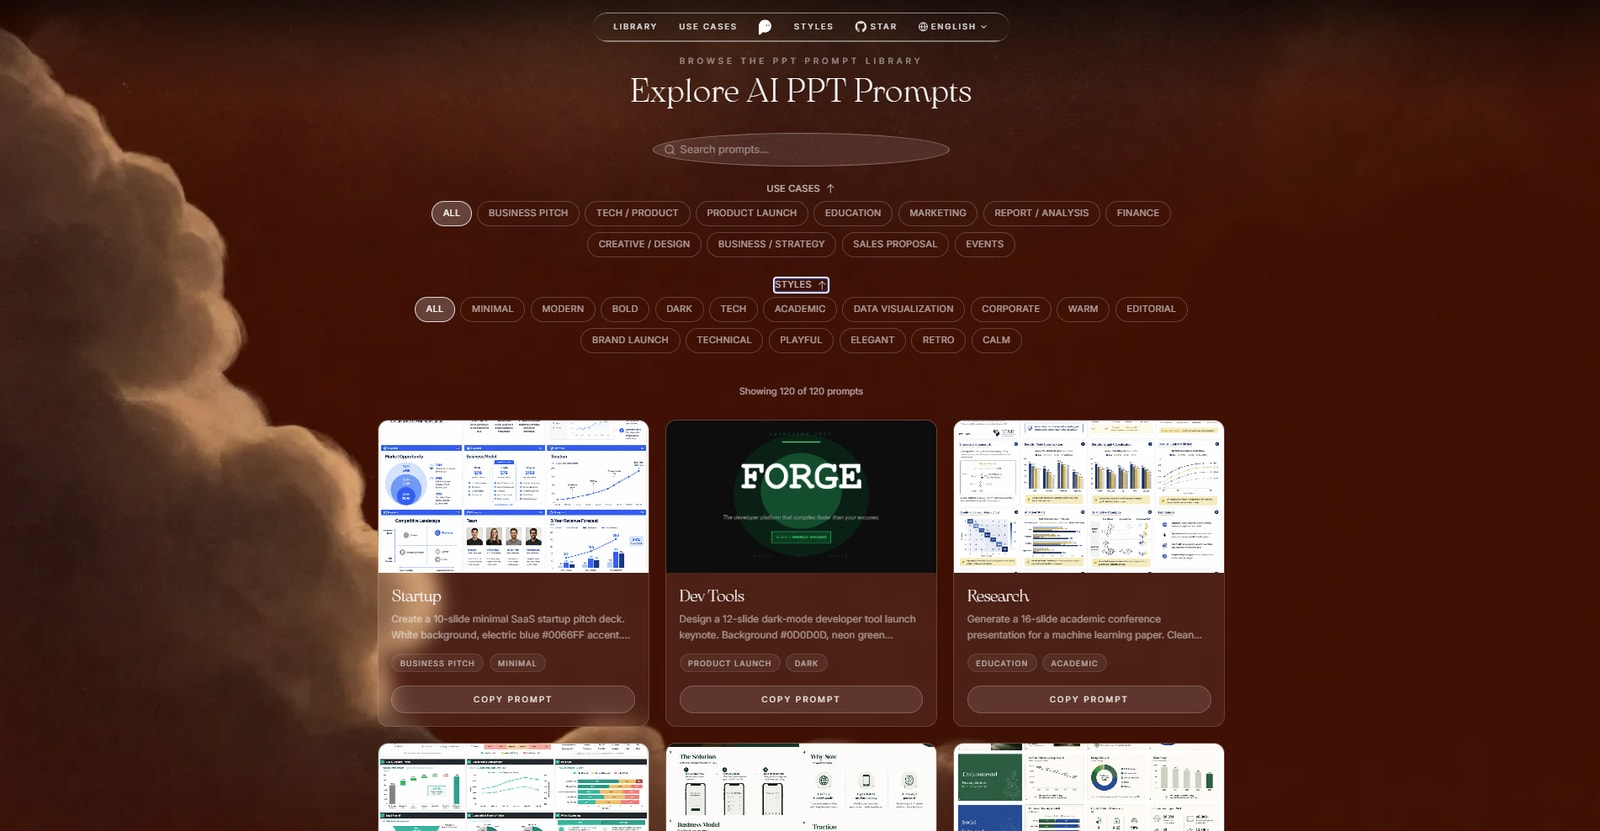
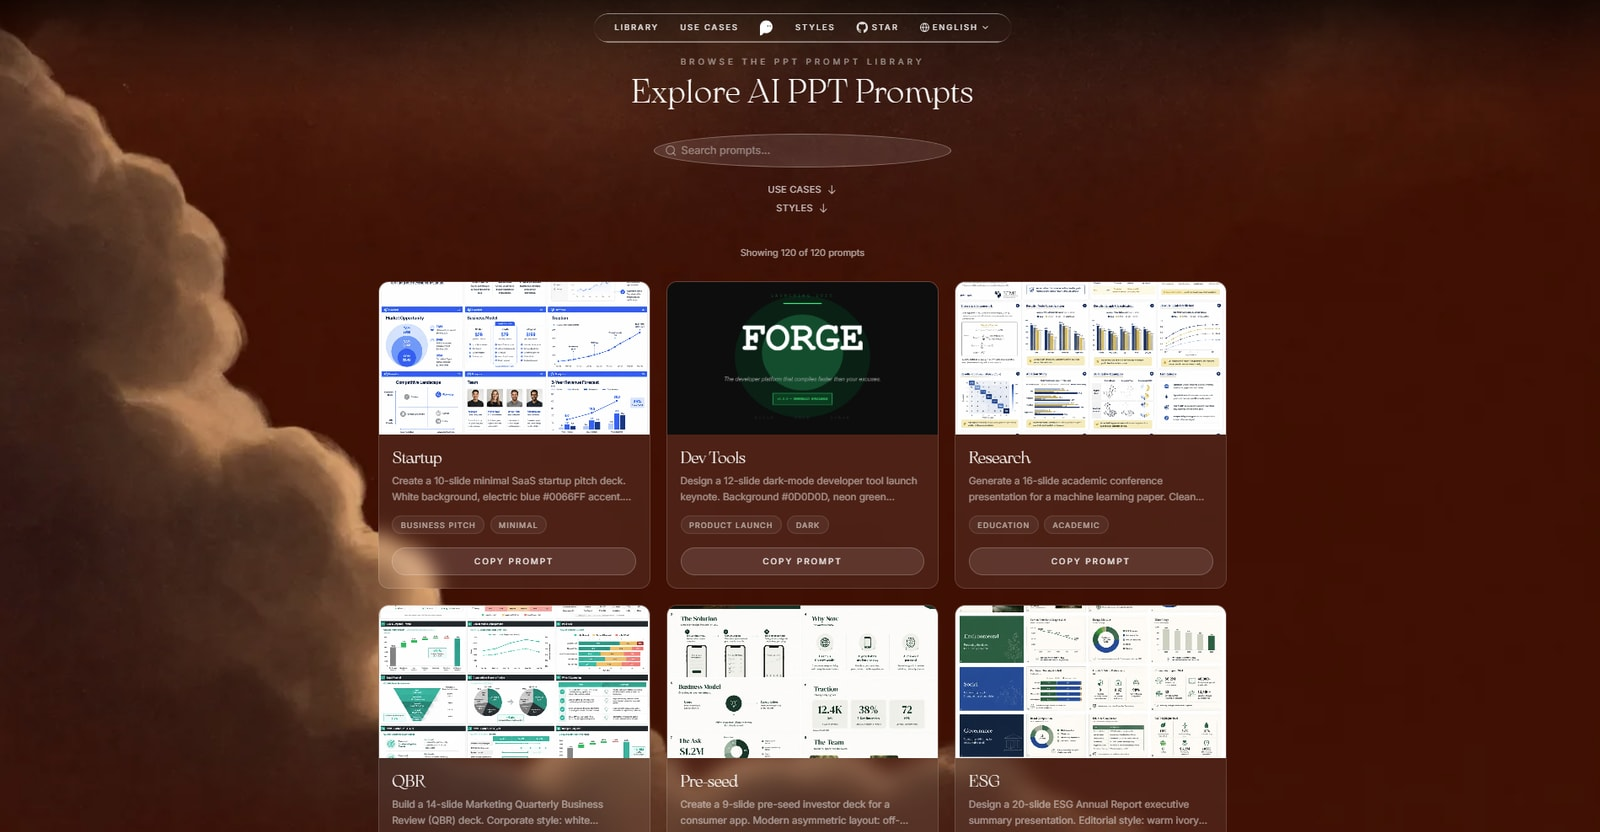
docs: give every localized README its own screenshots
Each language README now shows the hero and gallery captured in that
language — nav, filter chips, card titles and buttons all rendered in the
locale rather than borrowing the English shots.

Covers 11 of the 12 localized READMEs. zh-Hant still points at the English
images; no Traditional Chinese capture exists yet.

Capture filenames used kr/jp; these are stored under the ko/ja codes the
READMEs and locale files use. English shots were re-encoded from fresh
captures too. 24 images, 3.1MB total at 1600px mozjpeg.

diff --git a/README_th.md b/README_th.md
@@ -5,7 +5,7 @@
 > อัปเดตเป็นประจำจากชุมชนคุณภาพสูงเพื่อสร้างสไลด์นำเสนอได้เร็วและดียิ่งขึ้น
 
 <a href="https://surgepix.ai/resources/th/awesome-ppt-prompts">
-  <img src="public/images/hero.jpg" alt="คลังพรอมต์ PPT" width="100%" />
+  <img src="public/images/hero-th.jpg" alt="คลังพรอมต์ PPT" width="100%" />
 </a>
 
 > ⚠ ประกาศลิขสิทธิ์: พรอมต์ทั้งหมดรวบรวมจากชุมชน (Reddit, X, GitHub) เพื่อการศึกษาและอ้างอิง พร้อมระบุแหล่งที่มา หากคุณเชื่อว่ามีเนื้อหาใดละเมิดสิทธิ์ โปรดเปิด issue เราจะดำเนินการโดยเร็ว
@@ -13,7 +13,7 @@
 ---
 
 <a href="https://surgepix.ai/resources/th/awesome-ppt-prompts">
-  <img src="public/images/gallery.jpg" alt="คลังพรอมต์ PPT" width="100%" />
+  <img src="public/images/gallery-th.jpg" alt="คลังพรอมต์ PPT" width="100%" />
 </a>
 
 **[👉 เรียกดูคลังพรอมต์ AI PPT ของ SurgePix (ภาษาไทย)](https://surgepix.ai/resources/th/awesome-ppt-prompts)**

diff --git a/README_ja.md b/README_ja.md
@@ -5,7 +5,7 @@
 > 高品質コミュニティから定期的に更新され、すぐに使えるPPTプロンプトをより早く作成できます。
 
 <a href="https://surgepix.ai/resources/ja/awesome-ppt-prompts">
-  <img src="public/images/hero.jpg" alt="PPT プロンプトライブラリ" width="100%" />
+  <img src="public/images/hero-ja.jpg" alt="PPT プロンプトライブラリ" width="100%" />
 </a>
 
 > ⚠ 著作権について：プロンプトはコミュニティ（Reddit、X、GitHub）から出典を明記して収集したもので、学習・参考目的です。権利侵害があるとお考えの場合は issue を開いてください。速やかに対応します。
@@ -13,7 +13,7 @@
 ---
 
 <a href="https://surgepix.ai/resources/ja/awesome-ppt-prompts">
-  <img src="public/images/gallery.jpg" alt="PPT プロンプトライブラリ" width="100%" />
+  <img src="public/images/gallery-ja.jpg" alt="PPT プロンプトライブラリ" width="100%" />
 </a>
 
 **[👉 SurgePix AI PPT プロンプトライブラリを見る（日本語版）](https://surgepix.ai/resources/ja/awesome-ppt-prompts)**

diff --git a/README_fr.md b/README_fr.md
@@ -5,7 +5,7 @@
 > Régulièrement mise à jour à partir de communautés de haute qualité pour créer des prompts PPT prêts à l'emploi plus rapidement.
 
 <a href="https://surgepix.ai/resources/fr/awesome-ppt-prompts">
-  <img src="public/images/hero.jpg" alt="Bibliothèque de Prompts PPT" width="100%" />
+  <img src="public/images/hero-fr.jpg" alt="Bibliothèque de Prompts PPT" width="100%" />
 </a>
 
 > ⚠ Avis de droit d'auteur : les prompts sont collectés auprès de la communauté (Reddit, X, GitHub) à des fins éducatives et d'inspiration, avec attribution des sources. Si vous pensez qu'un contenu porte atteinte à vos droits, veuillez ouvrir une issue ; nous le retirerons rapidement.
@@ -13,7 +13,7 @@
 ---
 
 <a href="https://surgepix.ai/resources/fr/awesome-ppt-prompts">
-  <img src="public/images/gallery.jpg" alt="Bibliothèque de Prompts PPT" width="100%" />
+  <img src="public/images/gallery-fr.jpg" alt="Bibliothèque de Prompts PPT" width="100%" />
 </a>
 
 **[👉 Parcourir la bibliothèque de prompts AI PPT SurgePix (Français)](https://surgepix.ai/resources/fr/awesome-ppt-prompts)**

diff --git a/README_vi.md b/README_vi.md
@@ -5,7 +5,7 @@
 > Được cập nhật thường xuyên từ các cộng đồng chất lượng cao để soạn thảo thuyết trình nhanh hơn, tốt hơn.
 
 <a href="https://surgepix.ai/resources/vi/awesome-ppt-prompts">
-  <img src="public/images/hero.jpg" alt="Thư Viện Prompt PPT" width="100%" />
+  <img src="public/images/hero-vi.jpg" alt="Thư Viện Prompt PPT" width="100%" />
 </a>
 
 > ⚠ Thông báo bản quyền: Các prompt được thu thập từ cộng đồng (Reddit, X, GitHub) cho mục đích giáo dục và tham khảo, có ghi rõ nguồn. Nếu bạn cho rằng nội dung nào vi phạm quyền của mình, vui lòng mở issue, chúng tôi sẽ xử lý kịp thời.
@@ -13,7 +13,7 @@
 ---
 
 <a href="https://surgepix.ai/resources/vi/awesome-ppt-prompts">
-  <img src="public/images/gallery.jpg" alt="Thư Viện Prompt PPT" width="100%" />
+  <img src="public/images/gallery-vi.jpg" alt="Thư Viện Prompt PPT" width="100%" />
 </a>
 
 **[👉 Duyệt Thư viện Prompt AI PPT của SurgePix (Tiếng Việt)](https://surgepix.ai/resources/vi/awesome-ppt-prompts)**

diff --git a/README_ko.md b/README_ko.md
@@ -5,7 +5,7 @@
 > 고품질 커뮤니티에서 정기적으로 업데이트되어 바로 사용할 수 있는 PPT 프롬프트를 더 빠르게 작성할 수 있습니다.
 
 <a href="https://surgepix.ai/resources/ko/awesome-ppt-prompts">
-  <img src="public/images/hero.jpg" alt="PPT 프롬프트 라이브러리" width="100%" />
+  <img src="public/images/hero-ko.jpg" alt="PPT 프롬프트 라이브러리" width="100%" />
 </a>
 
 > ⚠ 저작권 안내: 프롬프트는 커뮤니티(Reddit, X, GitHub)에서 출처를 명시하여 수집했으며, 학습 및 참고 목적입니다. 권리 침해라고 판단되면 issue를 열어주세요. 신속히 조치하겠습니다.
@@ -13,7 +13,7 @@
 ---
 
 <a href="https://surgepix.ai/resources/ko/awesome-ppt-prompts">
-  <img src="public/images/gallery.jpg" alt="PPT 프롬프트 라이브러리" width="100%" />
+  <img src="public/images/gallery-ko.jpg" alt="PPT 프롬프트 라이브러리" width="100%" />
 </a>
 
 **[👉 SurgePix AI PPT 프롬프트 라이브러리 보기 (한국어판)](https://surgepix.ai/resources/ko/awesome-ppt-prompts)**

diff --git a/README_es.md b/README_es.md
@@ -5,7 +5,7 @@
 > Actualizada regularmente desde comunidades de alta calidad para crear prompts PPT listos para usar más rápido.
 
 <a href="https://surgepix.ai/resources/es/awesome-ppt-prompts">
-  <img src="public/images/hero.jpg" alt="Biblioteca de Prompts PPT" width="100%" />
+  <img src="public/images/hero-es.jpg" alt="Biblioteca de Prompts PPT" width="100%" />
 </a>
 
 > ⚠ Aviso de derechos de autor: los prompts se recopilan de la comunidad (Reddit, X, GitHub) con fines educativos e inspiración, con atribución de fuente. Si cree que algún contenido infringe sus derechos, abra un issue y lo eliminaremos de inmediato.
@@ -13,7 +13,7 @@
 ---
 
 <a href="https://surgepix.ai/resources/es/awesome-ppt-prompts">
-  <img src="public/images/gallery.jpg" alt="Biblioteca de Prompts PPT" width="100%" />
+  <img src="public/images/gallery-es.jpg" alt="Biblioteca de Prompts PPT" width="100%" />
 </a>
 
 **[👉 Explorar la Biblioteca de Prompts de IA para PPT de SurgePix (Español)](https://surgepix.ai/resources/es/awesome-ppt-prompts)**

diff --git a/README_tr.md b/README_tr.md
@@ -5,7 +5,7 @@
 > Daha hızlı ve daha iyi sunum hazırlamak için yüksek kaliteli topluluktan düzenli olarak güncellenir.
 
 <a href="https://surgepix.ai/resources/tr/awesome-ppt-prompts">
-  <img src="public/images/hero.jpg" alt="PPT Prompt Kütüphanesi" width="100%" />
+  <img src="public/images/hero-tr.jpg" alt="PPT Prompt Kütüphanesi" width="100%" />
 </a>
 
 > ⚠ Telif hakkı bildirimi: Promptlar, eğitim ve ilham amacıyla kaynak belirtilerek topluluktan (Reddit, X, GitHub) derlenmiştir. Herhangi bir içeriğin haklarınızı ihlal ettiğini düşünüyorsanız lütfen bir issue açın; hızlıca kaldıracağız.
@@ -13,7 +13,7 @@
 ---
 
 <a href="https://surgepix.ai/resources/tr/awesome-ppt-prompts">
-  <img src="public/images/gallery.jpg" alt="PPT Prompt Kütüphanesi" width="100%" />
+  <img src="public/images/gallery-tr.jpg" alt="PPT Prompt Kütüphanesi" width="100%" />
 </a>
 
 **[👉 SurgePix AI PPT Prompt Kütüphanesine göz atın (Türkçe)](https://surgepix.ai/resources/tr/awesome-ppt-prompts)**

diff --git a/README_pl.md b/README_pl.md
@@ -5,7 +5,7 @@
 > Regularnie aktualizowana ze społeczności wysokiej jakości dla szybszego i lepszego tworzenia prezentacji.
 
 <a href="https://surgepix.ai/resources/pl/awesome-ppt-prompts">
-  <img src="public/images/hero.jpg" alt="Biblioteka Promptów PPT" width="100%" />
+  <img src="public/images/hero-pl.jpg" alt="Biblioteka Promptów PPT" width="100%" />
 </a>
 
 > ⚠ Informacja o prawach autorskich: prompty są zbierane ze społeczności (Reddit, X, GitHub) w celach edukacyjnych i inspiracyjnych, z podaniem źródła. Jeśli uważasz, że jakaś treść narusza Twoje prawa, otwórz issue — usuniemy ją niezwłocznie.
@@ -13,7 +13,7 @@
 ---
 
 <a href="https://surgepix.ai/resources/pl/awesome-ppt-prompts">
-  <img src="public/images/gallery.jpg" alt="Biblioteka Promptów PPT" width="100%" />
+  <img src="public/images/gallery-pl.jpg" alt="Biblioteka Promptów PPT" width="100%" />
 </a>
 
 **[👉 Przeglądaj Bibliotekę Promptów AI PPT SurgePix (Polski)](https://surgepix.ai/resources/pl/awesome-ppt-prompts)**

diff --git a/README_id.md b/README_id.md
@@ -5,7 +5,7 @@
 > Diperbarui rutin dari komunitas berkualitas tinggi untuk membuat presentasi lebih cepat dan lebih baik.
 
 <a href="https://surgepix.ai/resources/id/awesome-ppt-prompts">
-  <img src="public/images/hero.jpg" alt="Koleksi Prompt PPT" width="100%" />
+  <img src="public/images/hero-id.jpg" alt="Koleksi Prompt PPT" width="100%" />
 </a>
 
 > ⚠ Pemberitahuan hak cipta: Prompt dikumpulkan dari komunitas (Reddit, X, GitHub) untuk tujuan edukasi dan referensi, dengan atribusi sumber. Jika Anda merasa ada konten yang melanggar hak Anda, silakan buka issue dan kami akan segera menghapusnya.
@@ -13,7 +13,7 @@
 ---
 
 <a href="https://surgepix.ai/resources/id/awesome-ppt-prompts">
-  <img src="public/images/gallery.jpg" alt="Koleksi Prompt PPT" width="100%" />
+  <img src="public/images/gallery-id.jpg" alt="Koleksi Prompt PPT" width="100%" />
 </a>
 
 **[👉 Jelajahi Perpustakaan Prompt AI PPT SurgePix (Bahasa Indonesia)](https://surgepix.ai/resources/id/awesome-ppt-prompts)**

diff --git a/README_zh.md b/README_zh.md
@@ -13,7 +13,7 @@
 ---
 
 <a href="https://surgepix.ai/resources/zh/awesome-ppt-prompts">
-  <img src="public/images/gallery.jpg" alt="PPT 提示词库" width="100%" />
+  <img src="public/images/gallery-zh.jpg" alt="PPT 提示词库" width="100%" />
 </a>
 
 **[👉 在 SurgePix AI PPT 提示词库中浏览（中文版）](https://surgepix.ai/resources/zh/awesome-ppt-prompts)**
